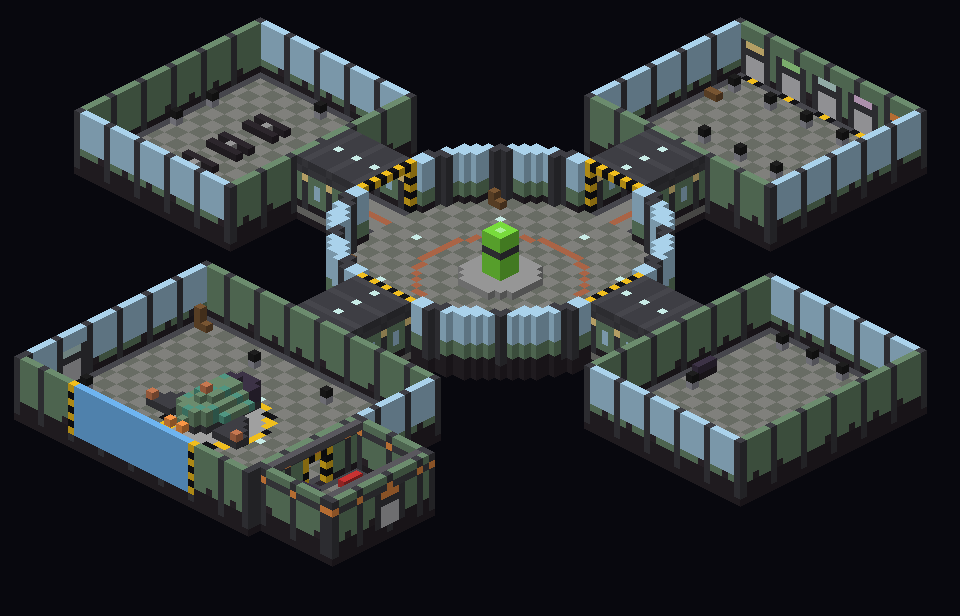
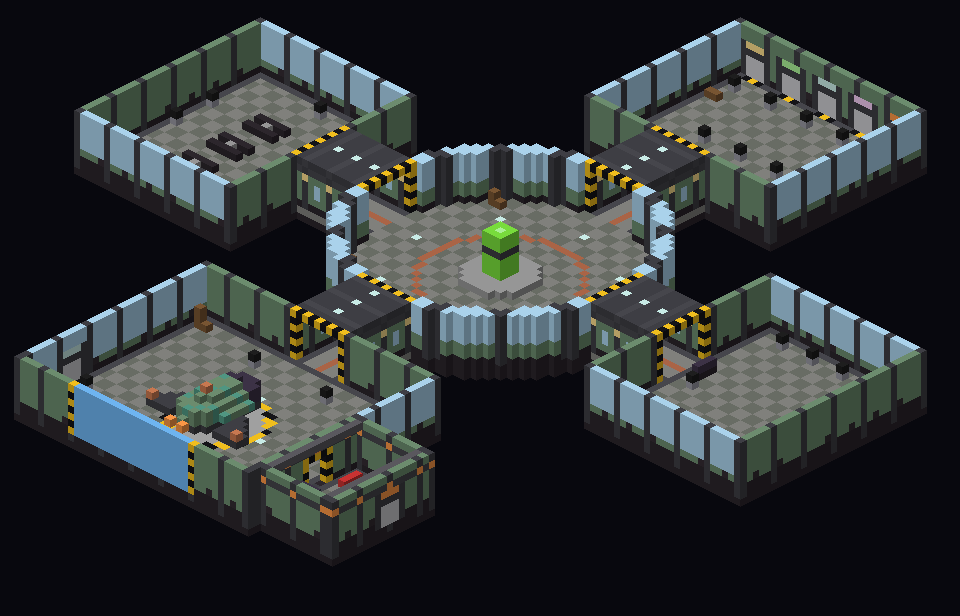
Station hub v2: open the corridor doorways into every wing
The wings were drawn after the corridors, so each wing wall sealed its corridor
and every console was unreachable. Corridors are now carved last (layout v2,
rebuilt automatically on start). Adds a Fishing Shuttle console in the bay.

Claude-Session: https://claude.ai/code/session_01MvadxyewR7tWKPBwVCK3K3

diff --git a/src/main/java/dev/spacepunk/prison/station/HubLayout.java b/src/main/java/dev/spacepunk/prison/station/HubLayout.java
@@ -24,7 +24,7 @@ import static dev.spacepunk.prison.station.Palette.*;
  */
 final class HubLayout {
     /** Layout version; the module rebuilds the hub on start when the stored version is older. */
-    static final int VERSION = 1;
+    static final int VERSION = 2;
     static final int FLOOR = 64;
     static final double SPAWN_X = 0.5, SPAWN_Z = 9.5;
     static final float SPAWN_YAW = 180f;
@@ -46,15 +46,16 @@ final class HubLayout {
 
     HubLayout draw() {
         concourse();
-        corridor(0, -1);
-        corridor(1, 0);
-        corridor(-1, 0);
-        corridor(0, 1);
         mineLifts();
         exchange();
         crewDeck();
         shuttleBay();
         checkpoint();
+        // Corridors last so they cut doorways through the wing walls.
+        corridor(0, -1);
+        corridor(1, 0);
+        corridor(-1, 0);
+        corridor(0, 1);
         return this;
     }
 
@@ -150,7 +151,7 @@ final class HubLayout {
         labels.add(new Label(17.3, 70.6, 0.5, "<#e0b354><bold>▶ EXCHANGE</bold>\n<gray>sell · cargo · drill bay · black market", 1.4f));
         labels.add(new Label(-16.3, 70.6, 0.5, "<#8fd3ff><bold>◀ CREW DECK</bold>\n<gray>quests · contracts · gangs", 1.4f));
         labels.add(new Label(0.5, 70.6, 17.8, "<#ff7a5a><bold>▼ SHUTTLE BAY</bold>\n<gray>planetside · workshop · undercroft", 1.4f));
-        labels.add(new Label(SPAWN_X, F + 2.6, SPAWN_Z - 3, "<gray>Welcome aboard. <white>/hub</white> brings you back here.", 0.9f));
+        labels.add(new Label(SPAWN_X, F + 2.6, SPAWN_Z - 3, "<gray>Welcome aboard. Right-click the <white>consoles</white> in each wing to travel.\n<white>/hub</white> brings you back here.", 0.9f));
     }
 
     private void crates(int x, int z, int height) {
@@ -356,6 +357,7 @@ final class HubLayout {
         shuttle(0, pz);
         terminal("shuttle-board", -6, 35, "<#ff7a5a><bold>Shuttle Board", "planetside destinations");
         terminal("shuttle-board", 6, 35, "<#ff7a5a><bold>Shuttle Board", "planetside destinations");
+        terminal("fishing", -6, 57, "<#8fd3ff><bold>Fishing Shuttle", "station waters and deck catches");
         // Workshop airlock in the west wall
         door(-19, 53, false, 1, LIGHT);
         terminal("workshop", -16, 53, "<#e0b354><bold>Workshop Airlock", "your private hull bay");

diff --git a/docs/STATION.md b/docs/STATION.md
@@ -18,7 +18,7 @@ More: [exterior](img/station-hub-exterior.png), [floor plan](img/station-hub-pla
 | Mine Lifts (north) | x -14..14, z -54..-31 | `lift-scrapyard..lift-foundry` → `/mine <first mine of deck>`, `lift-best` → `/mine`, `mine-directory` → `/mines`, `parkour` → `/parkour` |
 | Exchange (east) | x 31..54, z -14..14 | `sell`, `cargo`, `drill`, `rankup`, `grades`, `auction` → `/ah`, `auction-claims` → `/ah claims`, `salvage` → `/salvage` |
 | Crew Deck (west) | x -54..-31, z -14..14 | `quests`, `contracts`, `gang`; bar and lounge, room for quest NPCs |
-| Shuttle Bay (south) | x -18..18, z 31..60 | `shuttle-board` → board of `planetside` + `danger` warps, `workshop` → warp `workshop` (falls back to `/workshop`) |
+| Shuttle Bay (south) | x -18..18, z 31..60 | `shuttle-board` → board of `planetside` + `danger` warps, `fishing` → warp `fishing`, `workshop` → warp `workshop` (falls back to `/workshop`) |
 | Guard Checkpoint | x 20..30, z 44..58 (off the bay) | `undercroft` → warp `undercroft` |
 
 Terminals are a lodestone console with a button; right-click either. Text displays label everything and are
